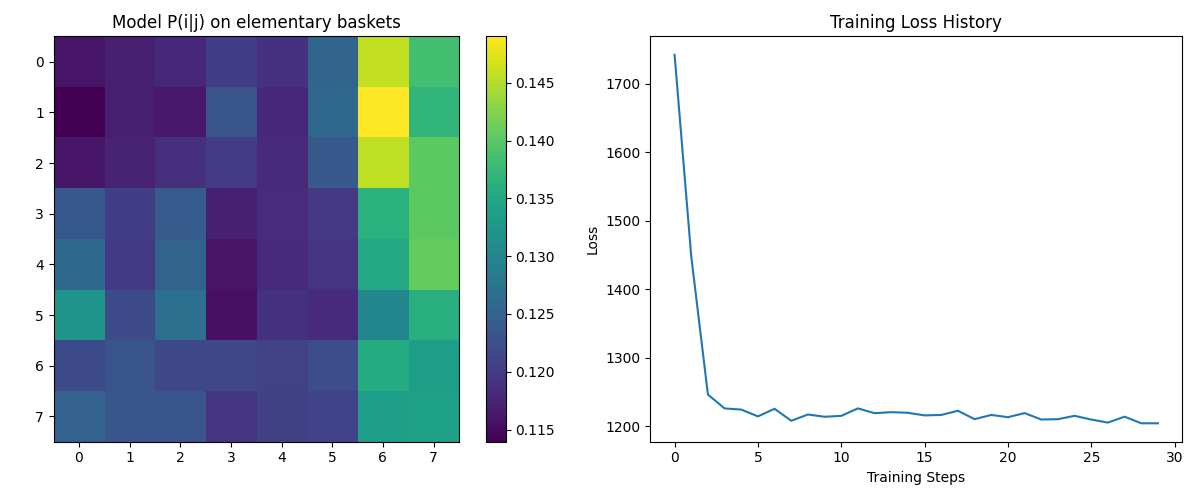
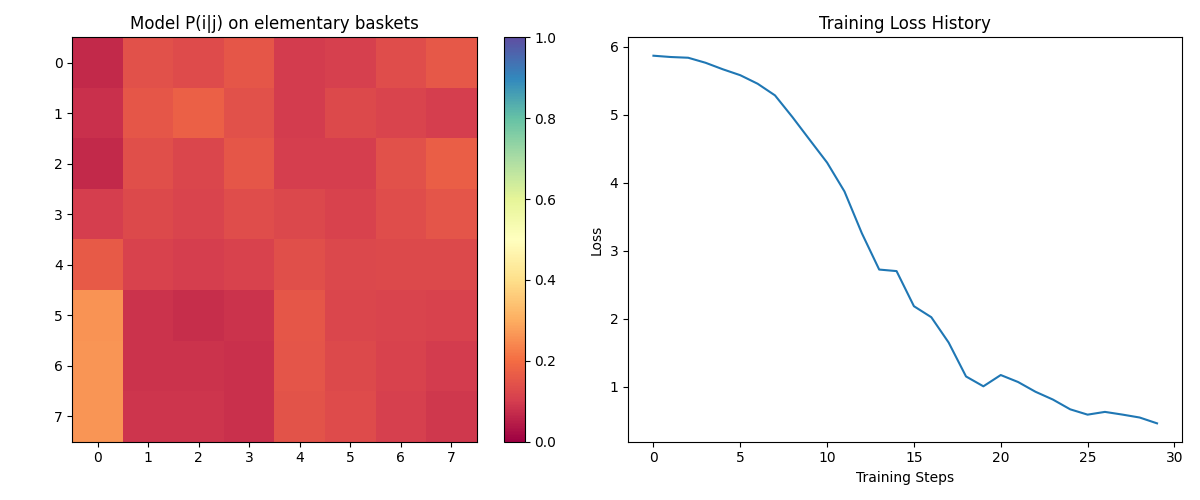
new commit

diff --git a/python/data.py b/python/data.py
@@ -8,6 +8,7 @@ import random
 import matplotlib.pyplot as plt
 from tqdm import trange
 
+# sets -> list or ndarray
 
 class SyntheticDataGenerator:
     def __init__(
@@ -81,9 +82,11 @@ class SyntheticDataGenerator:
             """Adds noise items to the basket based on the defined noise probability."""
 
             noise_proba = self.noise_proba
+            
             for item in self.assortment:
                 if item not in basket and random.random() < noise_proba:
                     basket.append(item)
+
             return basket
 
         first_chosen_item, first_chosen_nest = select_first_item()

diff --git a/python/model.py b/python/model.py
@@ -198,7 +198,7 @@ class BaseModel:
 
         context_vec = self.context_embed(context_items)
         scores = tf.tensordot(self.Wo, tf.transpose(context_vec), axes=1)
-        return tf.nn.softmax(scores, axis = 0).numpy()
+        return tf.nn.softmax(scores, axis = 1).numpy()
 
     def fit(
         self,

diff --git a/python/main.py b/python/main.py
@@ -1,5 +1,9 @@
 from data import SyntheticDataGenerator
+from model import BaseModel
+
 
 data_gen = SyntheticDataGenerator()
-baskets = data_gen.generate_synthetic_dataset(5)
+baskets = data_gen.generate_synthetic_dataset(50)
 print(baskets)
+model1 = BaseModel()
+model1.fit(baskets, repr = True)
